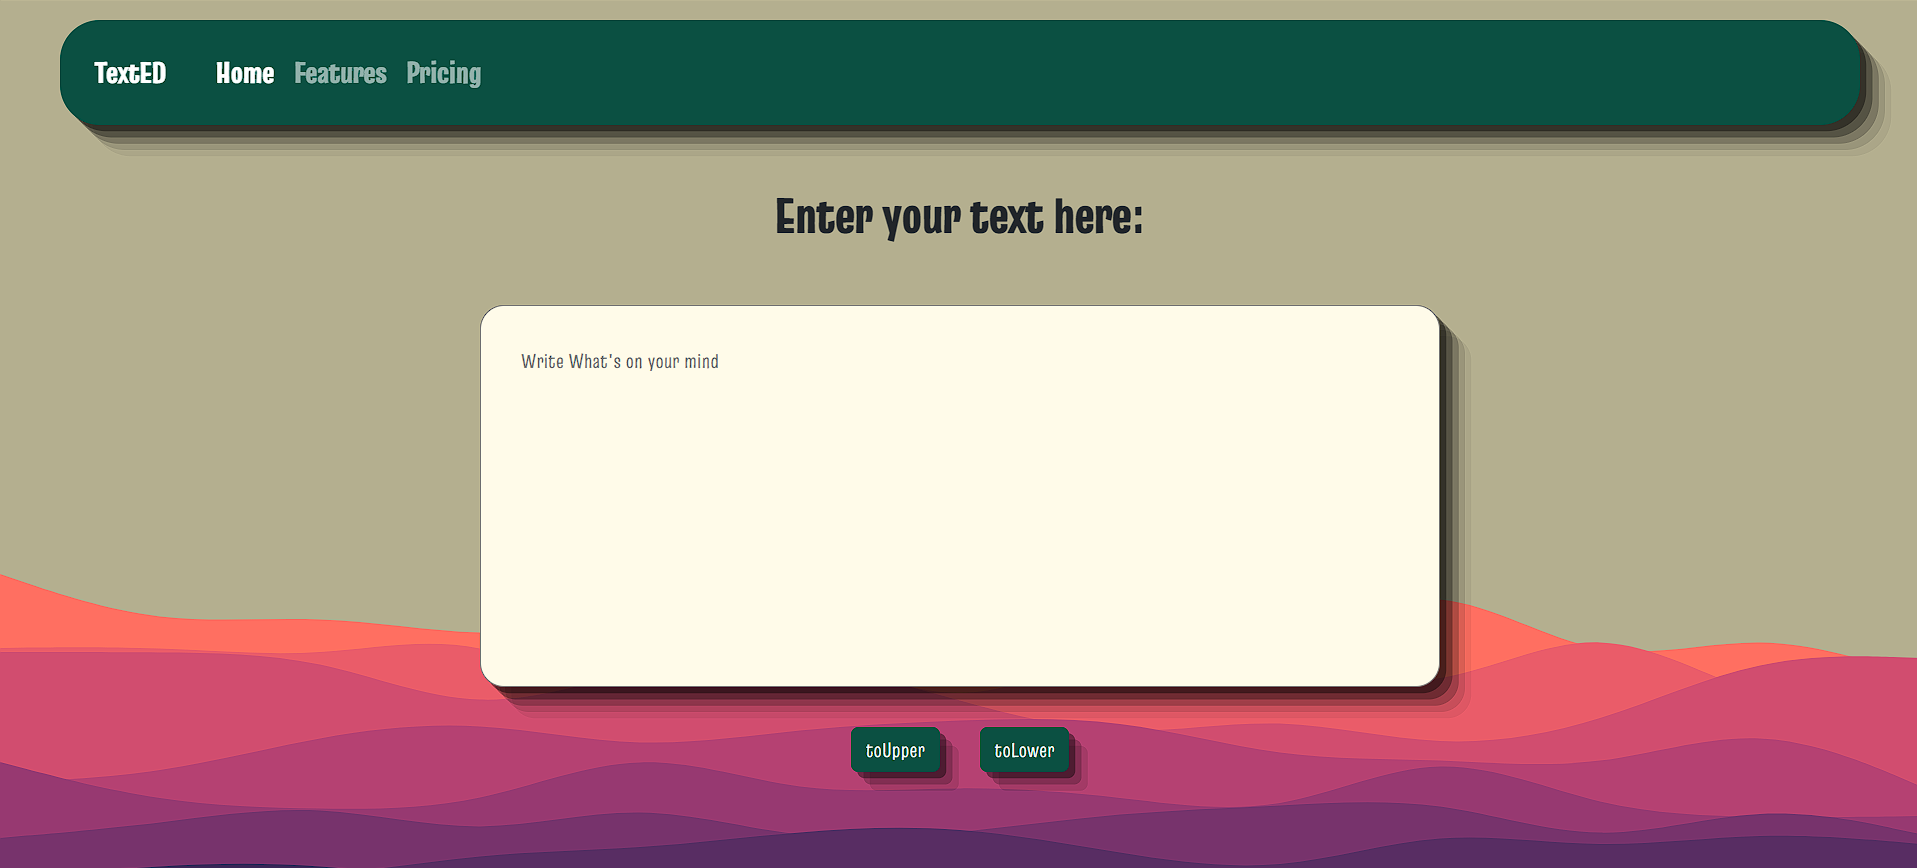
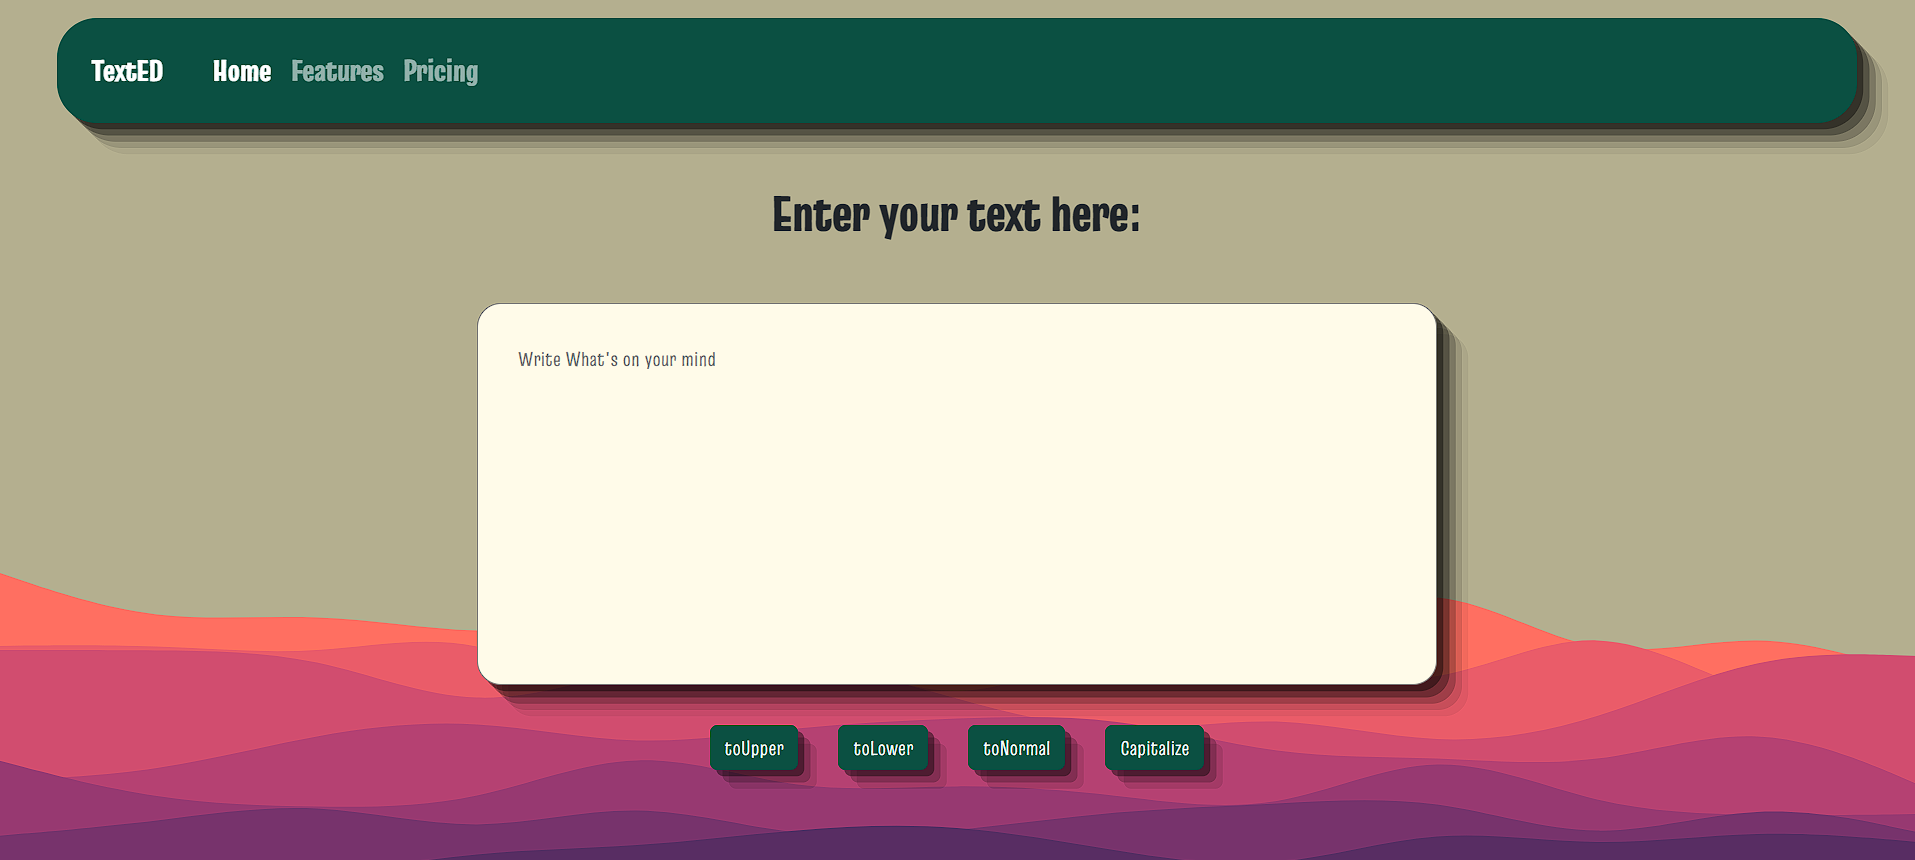
function added

diff --git a/src/assets/Form.jsx b/src/assets/Form.jsx
@@ -1,21 +1,38 @@
 import { useState } from "react";
 import Button from "./Button";
 
-function Form(props) {
+function Form() {
     const [text, setText] = useState("");
 
     function handleUpper(e) {
-        e.preventDefault()
         setText(text.toUpperCase());
     }
+
     function handleLower(e) {
-        e.preventDefault()
         setText(text.toLowerCase());
     }
 
+    function handleNormal() {
+        let capitalizedText = text
+            .split(". ")
+            .map((sentence) => {
+                return sentence.charAt(0).toUpperCase() + sentence.slice(1);
+            })
+            .join(". ");
+
+        setText(capitalizedText);
+    }
+
+    function handleCapitalise() {
+        let capitalizedText = text
+            .split(" ")
+            .map((word) => word.charAt(0).toUpperCase() + word.slice(1))
+            .join(" ");
+        setText(capitalizedText);
+    }
 
     return (
-        <form className="ta">
+        <form className="ta" onSubmit={(e) => e.preventDefault()}>
             <textarea
                 placeholder="Write What's on your mind"
                 name="textarea"
@@ -26,12 +43,13 @@ function Form(props) {
                     setText(e.target.value);
                 }}
                 value={text}
-            >
-            </textarea>
+            ></textarea>
             <div id="btnc">
                 <div id="btn">
                     <Button onClick={handleUpper}>toUpper</Button>
                     <Button onClick={handleLower}>toLower</Button>
+                    <Button onClick={handleNormal}>toNormal</Button>
+                    <Button onClick={handleCapitalise}>Capitalise</Button>
                 </div>
             </div>
         </form>
